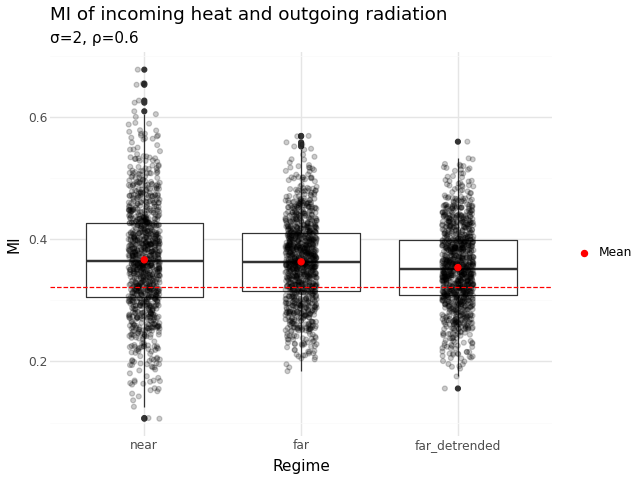
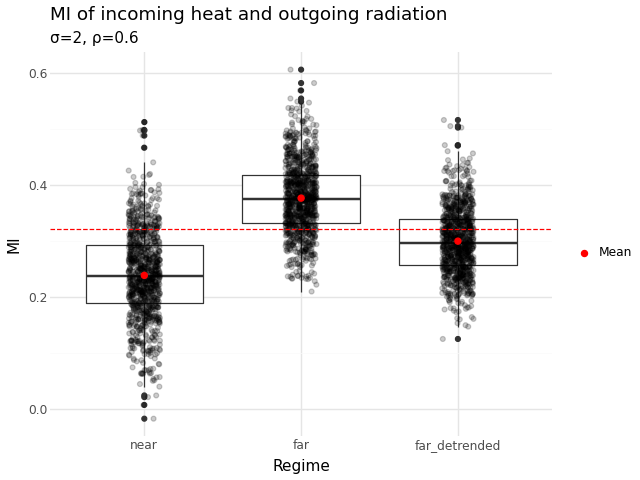
Bug fix

diff --git a/analysis.py b/analysis.py
@@ -8,11 +8,11 @@ from npeet import entropy_estimators as ee
 def read_data(filename):
     data = np.load(filename)
 
-    n_ensemble, n_sample = data[data.files[0]].shape
+    n_sample, n_ensemble = data[data.files[0]].shape
 
     df = pd.DataFrame({
-        "ensemble": np.repeat(np.arange(n_ensemble), n_sample),
-        "sample": np.tile(np.arange(n_sample), n_ensemble),
+        "sample": np.repeat(np.arange(n_sample), n_ensemble),
+        "ensemble": np.tile(np.arange(n_ensemble), n_sample),
     })
 
     for name in data.files:
@@ -69,8 +69,8 @@ def plot_mi(mi_df, ref_value, title, subtitle):
 
 
 def main():
-    sigma = 2
-    rho = 0.6
+    sigma = 1
+    rho = 0.9
     ref_value = -0.5 * np.log2(1 - rho ** 2)
 
     print("Reading data...")
